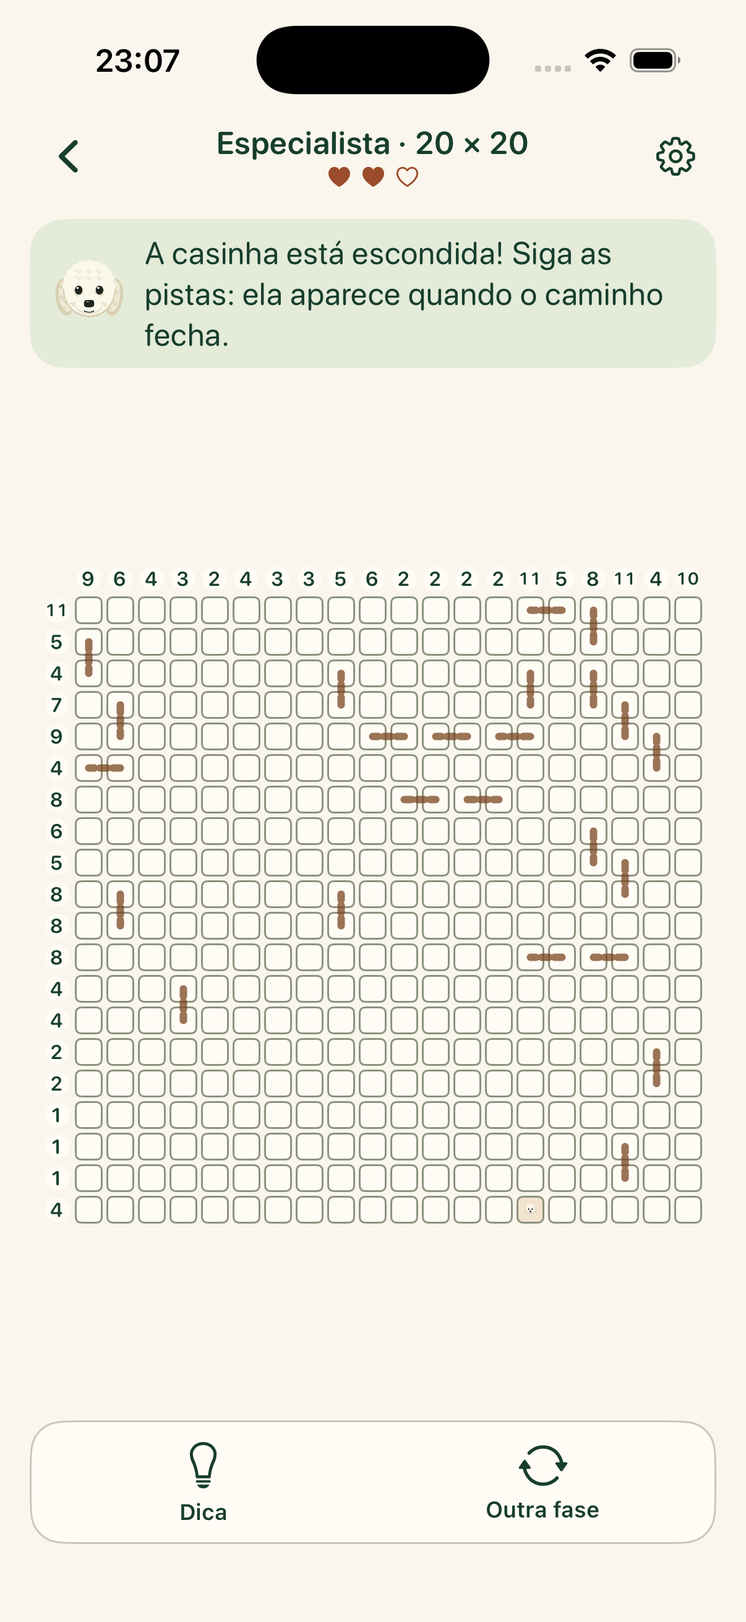
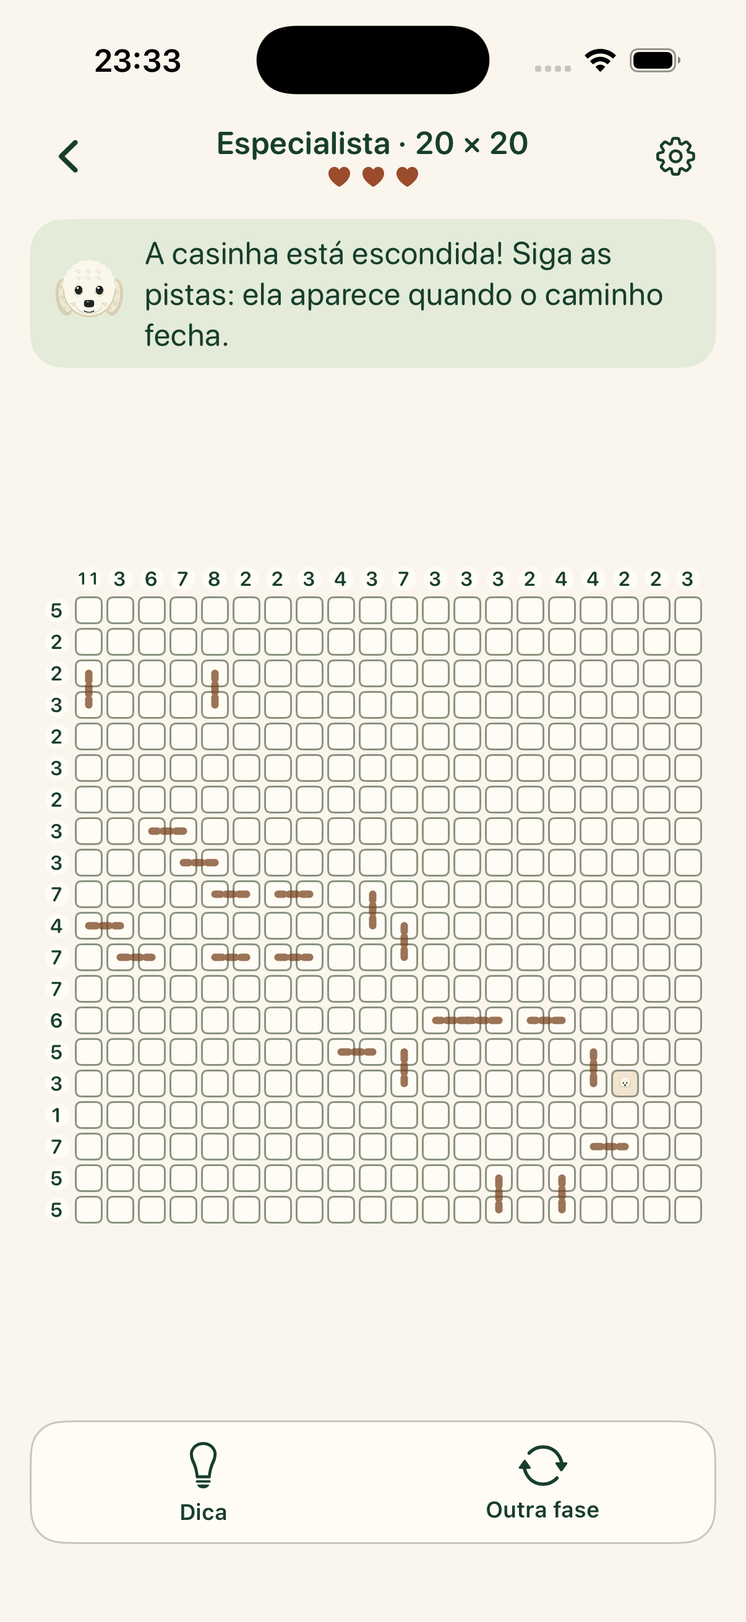
feat: retry the same walk after losing; prefer route cells together per line
After a loss, Tentar de novo restarts the same grid; a finished walk
offers Nova fase or Jogar esta de novo. The generator now keeps the
least broken-up of several candidate routes (skipping frame-like ones
along the border), and big grids use relatively shorter routes, which
also cuts revealed pieces and generation time.

diff --git a/Sources/PuzzleCore/FallbackCatalog.swift b/Sources/PuzzleCore/FallbackCatalog.swift
@@ -16,24 +16,24 @@ public enum FallbackCatalog {
     /// Reserve walks per difficulty, from `Calibration walk-reserves`; certified in tests.
     public static let walks: [Difficulty: [Puzzle]] = [
         .easy: [
-            reserve(#"{"columns":[3,1,1,3,3],"generatorVersion":1,"goal":{"col":3,"row":1},"obstacles":[],"puzzleID":"reserve-walk-v1-easy-0","rows":[2,2,5,1,1],"schemaVersion":2,"seed":1000,"start":{"col":0,"row":4}}"#),
-            reserve(#"{"columns":[2,2,2,2,1],"generatorVersion":1,"goal":{"col":4,"row":0},"obstacles":[],"puzzleID":"reserve-walk-v1-easy-1","rows":[2,2,2,2,1],"schemaVersion":2,"seed":1001,"start":{"col":0,"row":4}}"#),
-            reserve(#"{"columns":[3,1,5,1,2],"generatorVersion":1,"goal":{"col":4,"row":1},"obstacles":[],"puzzleID":"reserve-walk-v1-easy-2","rows":[3,2,2,2,3],"schemaVersion":2,"seed":1002,"start":{"col":0,"row":2}}"#),
+            reserve(#"{"columns":[1,2,2,3,5],"generatorVersion":1,"goal":{"col":0,"row":0},"obstacles":[],"puzzleID":"reserve-walk-v1-easy-0","rows":[5,4,2,1,1],"schemaVersion":2,"seed":1000,"start":{"col":4,"row":4}}"#),
+            reserve(#"{"columns":[1,1,2,2,3],"generatorVersion":1,"goal":{"col":4,"row":4},"obstacles":[],"puzzleID":"reserve-walk-v1-easy-1","rows":[3,2,2,1,1],"schemaVersion":2,"seed":1001,"start":{"col":0,"row":0}}"#),
+            reserve(#"{"columns":[5,1,1,1,1],"generatorVersion":1,"goal":{"col":0,"row":0},"obstacles":[],"puzzleID":"reserve-walk-v1-easy-2","rows":[1,1,1,1,5],"schemaVersion":2,"seed":1002,"start":{"col":4,"row":4}}"#),
         ],
         .medium: [
-            reserve(#"{"columns":[1,2,2,3,2,2,4],"generatorVersion":1,"goal":{"col":3,"row":0},"hiddenGoal":true,"obstacles":[],"puzzleID":"reserve-walk-v1-medium-0","rows":[4,1,1,4,2,2,2],"schemaVersion":2,"seed":1000,"start":{"col":0,"row":6}}"#),
-            reserve(#"{"columns":[2,2,1,1,2,3,5],"generatorVersion":1,"givenEdges":[{"a":{"col":1,"row":5},"b":{"col":1,"row":6}},{"a":{"col":6,"row":4},"b":{"col":6,"row":3}}],"goal":{"col":5,"row":0},"hiddenGoal":true,"obstacles":[],"puzzleID":"reserve-walk-v1-medium-1","rows":[1,2,1,1,2,5,4],"schemaVersion":2,"seed":1001,"start":{"col":0,"row":4}}"#),
-            reserve(#"{"columns":[2,1,1,1,5,3,3],"generatorVersion":1,"givenEdges":[{"a":{"col":4,"row":5},"b":{"col":4,"row":6}}],"goal":{"col":4,"row":6},"hiddenGoal":true,"obstacles":[],"puzzleID":"reserve-walk-v1-medium-2","rows":[7,2,2,2,1,1,1],"schemaVersion":2,"seed":1002,"start":{"col":0,"row":1}}"#),
+            reserve(#"{"columns":[7,2,1,1,1,1,1],"generatorVersion":1,"goal":{"col":1,"row":0},"hiddenGoal":true,"obstacles":[],"puzzleID":"reserve-walk-v1-medium-0","rows":[2,1,1,1,1,1,7],"schemaVersion":2,"seed":1000,"start":{"col":6,"row":6}}"#),
+            reserve(#"{"columns":[1,1,1,1,1,2,7],"generatorVersion":1,"goal":{"col":0,"row":6},"hiddenGoal":true,"obstacles":[],"puzzleID":"reserve-walk-v1-medium-1","rows":[2,1,1,1,1,1,7],"schemaVersion":2,"seed":1001,"start":{"col":5,"row":0}}"#),
+            reserve(#"{"columns":[3,1,2,4,1,1,2],"generatorVersion":1,"goal":{"col":6,"row":5},"hiddenGoal":true,"obstacles":[],"puzzleID":"reserve-walk-v1-medium-2","rows":[1,1,3,2,1,2,4],"schemaVersion":2,"seed":1002,"start":{"col":0,"row":0}}"#),
         ],
         .hard: [
-            reserve(#"{"columns":[3,2,4,1,1,1,3,2,1,10,5,5,7,3,8],"generatorVersion":1,"givenEdges":[{"a":{"col":12,"row":7},"b":{"col":11,"row":7}},{"a":{"col":5,"row":14},"b":{"col":6,"row":14}},{"a":{"col":12,"row":4},"b":{"col":12,"row":3}},{"a":{"col":9,"row":3},"b":{"col":9,"row":2}},{"a":{"col":11,"row":5},"b":{"col":11,"row":4}},{"a":{"col":13,"row":2},"b":{"col":14,"row":2}},{"a":{"col":14,"row":2},"b":{"col":14,"row":3}}],"goal":{"col":12,"row":3},"hiddenGoal":true,"obstacles":[],"puzzleID":"reserve-walk-v1-hard-0","rows":[3,4,3,3,4,3,3,4,4,4,5,4,5,2,5],"schemaVersion":2,"seed":1000,"start":{"col":2,"row":10}}"#),
-            reserve(#"{"columns":[3,4,4,2,3,7,3,2,4,2,4,1,8,5,13],"generatorVersion":1,"givenEdges":[{"a":{"col":8,"row":12},"b":{"col":9,"row":12}},{"a":{"col":6,"row":11},"b":{"col":7,"row":11}},{"a":{"col":6,"row":8},"b":{"col":6,"row":7}},{"a":{"col":2,"row":5},"b":{"col":1,"row":5}},{"a":{"col":5,"row":6},"b":{"col":5,"row":5}},{"a":{"col":8,"row":8},"b":{"col":7,"row":8}},{"a":{"col":13,"row":11},"b":{"col":12,"row":11}},{"a":{"col":14,"row":12},"b":{"col":14,"row":11}},{"a":{"col":9,"row":7},"b":{"col":8,"row":7}},{"a":{"col":13,"row":0},"b":{"col":14,"row":0}},{"a":{"col":12,"row":1},"b":{"col":12,"row":0}}],"goal":{"col":14,"row":0},"hiddenGoal":true,"obstacles":[],"puzzleID":"reserve-walk-v1-hard-1","rows":[3,1,3,1,5,4,3,8,9,8,2,7,4,4,3],"schemaVersion":2,"seed":1001,"start":{"col":10,"row":8}}"#),
-            reserve(#"{"columns":[9,3,6,2,5,2,4,1,4,1,2,1,5,4,14],"generatorVersion":1,"givenEdges":[{"a":{"col":4,"row":1},"b":{"col":4,"row":0}},{"a":{"col":2,"row":9},"b":{"col":2,"row":8}},{"a":{"col":0,"row":8},"b":{"col":0,"row":9}},{"a":{"col":9,"row":3},"b":{"col":10,"row":3}},{"a":{"col":13,"row":11},"b":{"col":13,"row":12}},{"a":{"col":8,"row":0},"b":{"col":8,"row":1}},{"a":{"col":2,"row":0},"b":{"col":1,"row":0}}],"goal":{"col":14,"row":14},"hiddenGoal":true,"obstacles":[],"puzzleID":"reserve-walk-v1-hard-2","rows":[10,7,6,8,7,5,3,3,3,4,1,2,1,2,1],"schemaVersion":2,"seed":1002,"start":{"col":4,"row":2}}"#),
+            reserve(#"{"columns":[4,3,12,6,2,1,3,1,1,2,1,1,2,2,4],"generatorVersion":1,"givenEdges":[{"a":{"col":2,"row":7},"b":{"col":2,"row":8}},{"a":{"col":1,"row":4},"b":{"col":2,"row":4}},{"a":{"col":3,"row":2},"b":{"col":2,"row":2}},{"a":{"col":12,"row":4},"b":{"col":12,"row":5}},{"a":{"col":0,"row":0},"b":{"col":0,"row":1}},{"a":{"col":2,"row":1},"b":{"col":2,"row":0}},{"a":{"col":14,"row":1},"b":{"col":14,"row":2}},{"a":{"col":6,"row":3},"b":{"col":6,"row":2}},{"a":{"col":3,"row":6},"b":{"col":3,"row":7}},{"a":{"col":5,"row":2},"b":{"col":4,"row":2}},{"a":{"col":3,"row":4},"b":{"col":3,"row":5}},{"a":{"col":0,"row":2},"b":{"col":0,"row":3}},{"a":{"col":2,"row":14},"b":{"col":3,"row":14}},{"a":{"col":2,"row":12},"b":{"col":2,"row":13}}],"goal":{"col":4,"row":14},"hiddenGoal":true,"obstacles":[],"puzzleID":"reserve-walk-v1-hard-0","rows":[4,3,7,5,9,5,1,2,1,1,1,1,1,1,3],"schemaVersion":2,"seed":1000,"start":{"col":14,"row":0}}"#),
+            reserve(#"{"columns":[5,2,3,2,8,1,1,1,6,2,4,2,3,2,4],"generatorVersion":1,"givenEdges":[{"a":{"col":10,"row":8},"b":{"col":10,"row":7}},{"a":{"col":0,"row":0},"b":{"col":0,"row":1}},{"a":{"col":6,"row":14},"b":{"col":7,"row":14}},{"a":{"col":10,"row":11},"b":{"col":10,"row":10}},{"a":{"col":8,"row":12},"b":{"col":8,"row":11}},{"a":{"col":8,"row":14},"b":{"col":8,"row":13}},{"a":{"col":8,"row":9},"b":{"col":9,"row":9}},{"a":{"col":12,"row":11},"b":{"col":11,"row":11}},{"a":{"col":4,"row":7},"b":{"col":4,"row":8}},{"a":{"col":13,"row":10},"b":{"col":12,"row":10}}],"goal":{"col":10,"row":10},"hiddenGoal":true,"obstacles":[],"puzzleID":"reserve-walk-v1-hard-1","rows":[2,1,1,1,3,1,2,7,4,4,6,5,2,2,5],"schemaVersion":2,"seed":1001,"start":{"col":1,"row":0}}"#),
+            reserve(#"{"columns":[7,3,6,2,3,1,1,1,4,3,5,6,2,6,3],"generatorVersion":1,"givenEdges":[{"a":{"col":1,"row":7},"b":{"col":1,"row":6}},{"a":{"col":11,"row":7},"b":{"col":11,"row":8}},{"a":{"col":8,"row":5},"b":{"col":8,"row":6}},{"a":{"col":13,"row":14},"b":{"col":12,"row":14}},{"a":{"col":11,"row":11},"b":{"col":10,"row":11}},{"a":{"col":2,"row":3},"b":{"col":2,"row":4}},{"a":{"col":6,"row":9},"b":{"col":5,"row":9}},{"a":{"col":0,"row":6},"b":{"col":0,"row":5}},{"a":{"col":13,"row":8},"b":{"col":13,"row":9}},{"a":{"col":4,"row":9},"b":{"col":4,"row":8}},{"a":{"col":10,"row":9},"b":{"col":9,"row":9}},{"a":{"col":10,"row":10},"b":{"col":10,"row":9}},{"a":{"col":8,"row":9},"b":{"col":7,"row":9}},{"a":{"col":0,"row":4},"b":{"col":0,"row":3}}],"goal":{"col":3,"row":4},"hiddenGoal":true,"obstacles":[],"puzzleID":"reserve-walk-v1-hard-2","rows":[3,2,2,2,5,2,5,6,4,8,2,3,3,2,4],"schemaVersion":2,"seed":1002,"start":{"col":9,"row":4}}"#),
         ],
         .expert: [
-            reserve(#"{"columns":[9,6,4,3,2,4,3,3,5,6,2,2,2,2,11,5,8,11,4,10],"generatorVersion":1,"givenEdges":[{"a":{"col":17,"row":11},"b":{"col":16,"row":11}},{"a":{"col":1,"row":3},"b":{"col":1,"row":4}},{"a":{"col":14,"row":2},"b":{"col":14,"row":3}},{"a":{"col":8,"row":3},"b":{"col":8,"row":2}},{"a":{"col":17,"row":4},"b":{"col":17,"row":3}},{"a":{"col":3,"row":12},"b":{"col":3,"row":13}},{"a":{"col":14,"row":4},"b":{"col":13,"row":4}},{"a":{"col":8,"row":10},"b":{"col":8,"row":9}},{"a":{"col":1,"row":9},"b":{"col":1,"row":10}},{"a":{"col":1,"row":5},"b":{"col":0,"row":5}},{"a":{"col":0,"row":1},"b":{"col":0,"row":2}},{"a":{"col":16,"row":3},"b":{"col":16,"row":2}},{"a":{"col":17,"row":8},"b":{"col":17,"row":9}},{"a":{"col":16,"row":1},"b":{"col":16,"row":0}},{"a":{"col":10,"row":6},"b":{"col":11,"row":6}},{"a":{"col":17,"row":18},"b":{"col":17,"row":17}},{"a":{"col":15,"row":0},"b":{"col":14,"row":0}},{"a":{"col":15,"row":11},"b":{"col":14,"row":11}},{"a":{"col":16,"row":7},"b":{"col":16,"row":8}},{"a":{"col":18,"row":15},"b":{"col":18,"row":14}},{"a":{"col":12,"row":4},"b":{"col":11,"row":4}},{"a":{"col":12,"row":6},"b":{"col":13,"row":6}},{"a":{"col":18,"row":5},"b":{"col":18,"row":4}},{"a":{"col":10,"row":4},"b":{"col":9,"row":4}}],"goal":{"col":15,"row":9},"hiddenGoal":true,"obstacles":[],"puzzleID":"reserve-walk-v1-expert-0","rows":[11,5,4,7,9,4,8,6,5,8,8,8,4,4,2,2,1,1,1,4],"schemaVersion":2,"seed":1000,"start":{"col":14,"row":19}}"#),
-            reserve(#"{"columns":[1,2,2,1,3,1,1,1,1,1,5,2,10,6,8,8,12,12,8,11],"generatorVersion":1,"givenEdges":[{"a":{"col":16,"row":18},"b":{"col":16,"row":17}},{"a":{"col":15,"row":3},"b":{"col":14,"row":3}},{"a":{"col":16,"row":14},"b":{"col":17,"row":14}},{"a":{"col":16,"row":7},"b":{"col":16,"row":6}},{"a":{"col":13,"row":12},"b":{"col":13,"row":11}},{"a":{"col":12,"row":7},"b":{"col":12,"row":6}},{"a":{"col":18,"row":16},"b":{"col":18,"row":17}},{"a":{"col":15,"row":12},"b":{"col":16,"row":12}},{"a":{"col":12,"row":14},"b":{"col":13,"row":14}},{"a":{"col":19,"row":17},"b":{"col":19,"row":18}},{"a":{"col":14,"row":6},"b":{"col":14,"row":7}},{"a":{"col":11,"row":5},"b":{"col":11,"row":4}},{"a":{"col":19,"row":12},"b":{"col":18,"row":12}},{"a":{"col":18,"row":12},"b":{"col":18,"row":11}},{"a":{"col":17,"row":8},"b":{"col":17,"row":7}},{"a":{"col":14,"row":16},"b":{"col":14,"row":17}},{"a":{"col":13,"row":17},"b":{"col":12,"row":17}},{"a":{"col":12,"row":10},"b":{"col":12,"row":9}},{"a":{"col":16,"row":16},"b":{"col":15,"row":16}},{"a":{"col":1,"row":0},"b":{"col":0,"row":0}}],"goal":{"col":0,"row":0},"hiddenGoal":true,"obstacles":[],"puzzleID":"reserve-walk-v1-expert-1","rows":[12,6,8,4,7,4,3,4,4,3,4,4,5,3,5,3,5,6,2,4],"schemaVersion":2,"seed":1001,"start":{"col":19,"row":14}}"#),
-            reserve(#"{"columns":[10,2,2,3,6,5,5,9,5,6,6,4,5,8,6,3,5,3,5,7],"generatorVersion":1,"givenEdges":[{"a":{"col":19,"row":2},"b":{"col":19,"row":1}},{"a":{"col":8,"row":13},"b":{"col":9,"row":13}},{"a":{"col":18,"row":4},"b":{"col":18,"row":3}},{"a":{"col":8,"row":7},"b":{"col":9,"row":7}},{"a":{"col":8,"row":0},"b":{"col":7,"row":0}},{"a":{"col":9,"row":3},"b":{"col":9,"row":2}},{"a":{"col":4,"row":2},"b":{"col":5,"row":2}},{"a":{"col":4,"row":11},"b":{"col":4,"row":12}},{"a":{"col":16,"row":10},"b":{"col":16,"row":9}},{"a":{"col":16,"row":0},"b":{"col":15,"row":0}},{"a":{"col":19,"row":6},"b":{"col":19,"row":5}},{"a":{"col":5,"row":19},"b":{"col":4,"row":19}},{"a":{"col":10,"row":8},"b":{"col":11,"row":8}},{"a":{"col":11,"row":6},"b":{"col":10,"row":6}},{"a":{"col":8,"row":2},"b":{"col":8,"row":1}},{"a":{"col":14,"row":11},"b":{"col":15,"row":11}},{"a":{"col":11,"row":14},"b":{"col":11,"row":15}},{"a":{"col":4,"row":0},"b":{"col":4,"row":1}},{"a":{"col":14,"row":1},"b":{"col":14,"row":2}},{"a":{"col":13,"row":9},"b":{"col":14,"row":9}},{"a":{"col":14,"row":3},"b":{"col":14,"row":4}}],"goal":{"col":14,"row":9},"hiddenGoal":true,"obstacles":[],"puzzleID":"reserve-walk-v1-expert-2","rows":[10,5,6,8,6,5,5,6,7,3,5,7,6,5,5,4,1,1,3,7],"schemaVersion":2,"seed":1002,"start":{"col":7,"row":18}}"#),
+            reserve(#"{"columns":[11,3,6,7,8,2,2,3,4,3,7,3,3,3,2,4,4,2,2,3],"generatorVersion":1,"givenEdges":[{"a":{"col":10,"row":14},"b":{"col":10,"row":15}},{"a":{"col":16,"row":17},"b":{"col":17,"row":17}},{"a":{"col":10,"row":11},"b":{"col":10,"row":10}},{"a":{"col":4,"row":3},"b":{"col":4,"row":2}},{"a":{"col":0,"row":10},"b":{"col":1,"row":10}},{"a":{"col":13,"row":18},"b":{"col":13,"row":19}},{"a":{"col":6,"row":11},"b":{"col":7,"row":11}},{"a":{"col":4,"row":11},"b":{"col":5,"row":11}},{"a":{"col":15,"row":19},"b":{"col":15,"row":18}},{"a":{"col":0,"row":2},"b":{"col":0,"row":3}},{"a":{"col":4,"row":8},"b":{"col":3,"row":8}},{"a":{"col":1,"row":11},"b":{"col":2,"row":11}},{"a":{"col":13,"row":13},"b":{"col":12,"row":13}},{"a":{"col":12,"row":13},"b":{"col":11,"row":13}},{"a":{"col":7,"row":9},"b":{"col":6,"row":9}},{"a":{"col":8,"row":14},"b":{"col":9,"row":14}},{"a":{"col":3,"row":7},"b":{"col":2,"row":7}},{"a":{"col":5,"row":9},"b":{"col":4,"row":9}},{"a":{"col":16,"row":15},"b":{"col":16,"row":14}},{"a":{"col":15,"row":13},"b":{"col":14,"row":13}},{"a":{"col":9,"row":10},"b":{"col":9,"row":9}}],"goal":{"col":18,"row":19},"hiddenGoal":true,"obstacles":[],"puzzleID":"reserve-walk-v1-expert-0","rows":[5,2,2,3,2,3,2,3,3,7,4,7,7,6,5,3,1,7,5,5],"schemaVersion":2,"seed":1000,"start":{"col":17,"row":15}}"#),
+            reserve(#"{"columns":[4,5,4,4,1,3,3,3,2,6,3,2,3,6,3,10,11,4,2,3],"generatorVersion":1,"givenEdges":[{"a":{"col":15,"row":8},"b":{"col":16,"row":8}},{"a":{"col":5,"row":9},"b":{"col":4,"row":9}},{"a":{"col":12,"row":5},"b":{"col":12,"row":6}},{"a":{"col":8,"row":8},"b":{"col":7,"row":8}},{"a":{"col":8,"row":16},"b":{"col":9,"row":16}},{"a":{"col":0,"row":6},"b":{"col":1,"row":6}},{"a":{"col":0,"row":8},"b":{"col":0,"row":7}},{"a":{"col":18,"row":19},"b":{"col":19,"row":19}},{"a":{"col":9,"row":19},"b":{"col":10,"row":19}},{"a":{"col":16,"row":15},"b":{"col":15,"row":15}},{"a":{"col":1,"row":4},"b":{"col":0,"row":4}}],"goal":{"col":0,"row":4},"hiddenGoal":true,"obstacles":[],"puzzleID":"reserve-walk-v1-expert-1","rows":[3,3,2,5,5,5,7,4,9,6,1,1,1,1,3,5,4,4,2,11],"schemaVersion":2,"seed":1001,"start":{"col":5,"row":14}}"#),
+            reserve(#"{"columns":[18,4,2,3,2,2,2,1,1,1,1,2,2,3,3,3,2,6,2,10],"generatorVersion":1,"givenEdges":[{"a":{"col":4,"row":1},"b":{"col":5,"row":1}},{"a":{"col":15,"row":5},"b":{"col":15,"row":4}},{"a":{"col":0,"row":13},"b":{"col":0,"row":12}},{"a":{"col":0,"row":1},"b":{"col":1,"row":1}},{"a":{"col":2,"row":19},"b":{"col":1,"row":19}},{"a":{"col":17,"row":5},"b":{"col":16,"row":5}},{"a":{"col":1,"row":0},"b":{"col":2,"row":0}},{"a":{"col":6,"row":1},"b":{"col":7,"row":1}}],"goal":{"col":12,"row":2},"hiddenGoal":true,"obstacles":[],"puzzleID":"reserve-walk-v1-expert-2","rows":[12,12,4,4,4,5,3,3,3,4,1,1,1,1,1,1,1,1,2,6],"schemaVersion":2,"seed":1002,"start":{"col":6,"row":19}}"#),
         ],
     ]
     public static func walk(for difficulty: Difficulty, variation: UInt64, id: String?) -> Puzzle? {

diff --git a/Sources/PuzzleCore/WalkGenerator.swift b/Sources/PuzzleCore/WalkGenerator.swift
@@ -43,7 +43,12 @@ public enum WalkGenerator {
         for index in 0..<max(0, candidateLimit) {
             if isCancelled() { return report(.cancelled, nil, attempted, logicRejected) }
             attempted += 1
-            guard let route = looseRoute(n, rng: &rng) ?? Optional(coveringRoute(n, rng: &rng)) else { continue }
+            // Of a few candidate routes, keep the one whose rows and columns are least broken up.
+            let options = (0..<(n >= 15 ? 16 : 8)).compactMap { _ in looseRoute(n, rng: &rng) }
+            // Routes that mostly run along the border would win that contest but play like a frame.
+            let border = { (route: [Cell]) in route.filter { $0.row == 0 || $0.col == 0 || $0.row == n-1 || $0.col == n-1 }.count }
+            let inland = options.filter { border($0) * 100 <= $0.count * 30 }
+            guard let route = (inland.isEmpty ? options : inland).min(by: { pieces($0) < pieces($1) }) ?? Optional(coveringRoute(n, rng: &rng)) else { continue }
             let rows = (0..<n).map { r in route.filter { $0.row == r }.count }
             let columns = (0..<n).map { c in route.filter { $0.col == c }.count }
             let puzzleID = id ?? "walk-v\(version)-\(difficulty.rawValue)-\(variation)-\(index)"
@@ -102,24 +107,48 @@ public enum WalkGenerator {
         GenerationReport(outcome: outcome, puzzle: puzzle, candidates: attempted, rejectedBySolver: 0, rejectedByLogic: logic, rejectedByDifficulty: 0)
     }
 
+    /// How many separate runs the route makes across all rows and columns (2n means every line is in one piece).
+    static func pieces(_ route: [Cell]) -> Int {
+        func runs(_ values: [Int]) -> Int {
+            let sorted = values.sorted()
+            return sorted.isEmpty ? 0 : 1 + zip(sorted, sorted.dropFirst()).filter { $1 - $0 > 1 }.count
+        }
+        return Dictionary(grouping: route, by: \.row).values.map { runs($0.map(\.col)) }.reduce(0, +)
+            + Dictionary(grouping: route, by: \.col).values.map { runs($0.map(\.row)) }.reduce(0, +)
+    }
     /// A route that never brushes against itself: each cell touches only the cells before and
-    /// after it. Once logic knows which cells are on the route, their order follows, which is
+    /// after it, and that keeps the cells of each row and column together where it can. Once logic knows which cells are on the route, their order follows, which is
     /// what lets 15×15 and 20×20 be solved without guessing. Also touches every row and column.
     private static func looseRoute(_ n: Int, rng: inout Random) -> [Cell]? {
         let inside = { (c: Cell) in (0..<n).contains(c.row) && (0..<n).contains(c.col) }
-        let target = n*n*30/100 + rng.next(max(1, n*n*12/100))
+        // Big grids get relatively shorter routes: fewer crossings keep their lines more together.
+        let target = n >= 15 ? n*n*20/100 + rng.next(max(1, n*n*8/100)) : n*n*30/100 + rng.next(max(1, n*n*12/100))
         for _ in 0..<60 {
             var route = [Cell(rng.next(n), rng.next(n))]
             var taken: Set<Cell> = [route[0]]
+            var rowCount = Array(repeating: 0, count: n), columnCount = Array(repeating: 0, count: n)
+            rowCount[route[0].row] = 1; columnCount[route[0].col] = 1
             while route.count < target {
                 let tip = route.last!
                 let options = Cell.neighbors(tip).filter { next in
                     inside(next) && !taken.contains(next) && Cell.neighbors(next).allSatisfy { $0 == tip || !taken.contains($0) }
                 }
                 if options.isEmpty { break }
-                // Mostly straight-ish wandering; sometimes the most constrained way, to avoid traps.
+                // Prefer cells that keep each row and column in one piece (a cell starts a new piece
+                // when its line already has route cells and none beside it); sometimes take the most
+                // constrained way to avoid traps, sometimes wander for variety.
                 let exits = { (c: Cell) in Cell.neighbors(c).filter { inside($0) && !taken.contains($0) }.count }
-                let pick = rng.next(3) == 0 ? options.min(by: { exits($0) < exits($1) })! : options[rng.next(options.count)]
+                let pieces = { (c: Cell) -> Int in
+                    let row = rowCount[c.row] > 0 && !taken.contains(Cell(c.row, c.col-1)) && !taken.contains(Cell(c.row, c.col+1))
+                    let column = columnCount[c.col] > 0 && !taken.contains(Cell(c.row-1, c.col)) && !taken.contains(Cell(c.row+1, c.col))
+                    return (row ? 1 : 0) + (column ? 1 : 0)
+                }
+                let fewest = options.map(pieces).min()!
+                let together = options.filter { pieces($0) == fewest }
+                let roll = rng.next(6)
+                let pick = roll < 4 ? together[rng.next(together.count)]
+                    : roll == 4 ? options.min(by: { exits($0) < exits($1) })! : options[rng.next(options.count)]
+                rowCount[pick.row] += 1; columnCount[pick.col] += 1
                 route.append(pick); taken.insert(pick)
             }
             if route.count >= target * 3 / 4, Set(route.map(\.row)).count == n, Set(route.map(\.col)).count == n { return route }

diff --git a/App/GameScreen.swift b/App/GameScreen.swift
@@ -35,7 +35,8 @@ struct GameScreen: View {
             GeometryReader { space in board(in: space.size) }
             if let error = session.storageError { storageRecovery(error) }
             if session.attempt.defeated {
-                Button(String(localized: "Tentar de novo"), systemImage: "arrow.clockwise") { Task { await session.replay() } }
+                // After losing, the same grid again: only a finished walk offers a new one.
+                Button(String(localized: "Tentar de novo"), systemImage: "arrow.clockwise") { session.restart() }
                     .buttonStyle(GardenButtonStyle(prominent: true))
             } else {
                 GameToolbar(canPlay: session.canInteract && !busy, isDaily: session.activeDailyID != nil,
@@ -58,7 +59,7 @@ struct GameScreen: View {
             VictorySheet(dogName: session.dogName, paws: session.attempt.paws,
                          best: session.bestPaws[game.puzzle.puzzleID] ?? session.attempt.paws,
                          isDaily: session.activeDailyID != nil, generating: session.generating,
-                         onNext: onNext, onReplay: { Task { await session.replay() } }, onHome: onHome)
+                         onNext: onNext, onReplay: { session.restart() }, onHome: onHome)
         }
         .task(id: session.celebrating) { await celebrate() }
         .onChange(of: game.won) { _, won in if !won { enteredHouse = false; wagging = false } }
@@ -270,10 +271,10 @@ struct VictorySheet: View {
                     Button(String(localized: "Voltar ao início"), systemImage: "house", action: onHome)
                         .buttonStyle(GardenButtonStyle(prominent: true))
                 } else {
-                    Button(String(localized: "Próximo passeio"), systemImage: "arrow.forward", action: onNext)
+                    Button(String(localized: "Nova fase"), systemImage: "sparkles", action: onNext)
                         .buttonStyle(GardenButtonStyle(prominent: true)).disabled(generating)
                 }
-                Button(String(localized: "Jogar de novo"), systemImage: "arrow.clockwise", action: onReplay)
+                Button(String(localized: "Jogar esta de novo"), systemImage: "arrow.clockwise", action: onReplay)
                     .buttonStyle(GardenButtonStyle()).disabled(generating)
                 if !isDaily {
                     Button(String(localized: "Início"), action: onHome).font(GardenTheme.heading).padding(.top, 2)

diff --git a/Sources/Calibration/main.swift b/Sources/Calibration/main.swift
@@ -37,17 +37,22 @@ if CommandLine.arguments.contains("sizes") {
     // Generation time and revealed pieces per difficulty (10 variations each).
     let clock = ContinuousClock()
     for difficulty in Difficulty.allCases {
-        var times: [Double] = [], pieces: [Int] = [], candidates = 0, failed = 0
+        var times: [Double] = [], pieces: [Int] = [], candidates = 0, failed = 0, blocks = 0, linesSeen = 0, together = 0, multi = 0
         for variation in UInt64(1)...10 {
             let start = clock.now
             let r = WalkGenerator.generate(difficulty, variation: variation)
             let t = start.duration(to: clock.now).components
             times.append(Double(t.seconds)*1000 + Double(t.attoseconds)/1e15)
             candidates += r.candidates
-            if let p = r.puzzle { pieces.append(p.givenEdges.count) } else { failed += 1 }
+            if let p = r.puzzle, let route = PuzzleSolution.route(for: p) {
+                pieces.append(p.givenEdges.count)
+                // Pieces per line: 1 means the line's route cells are all together.
+                let lines = (0..<p.rows.count).map { r in route.filter { $0.row == r }.map(\.col) } + (0..<p.columns.count).map { c in route.filter { $0.col == c }.map(\.row) }
+                for line in lines { let sorted = line.sorted(); blocks += 1 + zip(sorted, sorted.dropFirst()).filter { $1 - $0 > 1 }.count; linesSeen += 1
+                    if sorted.count > 1 && zip(sorted, sorted.dropFirst()).allSatisfy({ $1 - $0 == 1 }) { together += 1; multi += 1 } else if sorted.count > 1 { multi += 1 } }
+            } else { failed += 1 }
         }
-        let zeros = 0
-        print("\(difficulty) median=\(times.sorted()[5])ms max=\(times.max()!)ms candidates=\(candidates) failed=\(failed) pieces=\(pieces) zeros=\(zeros)")
+        print("\(difficulty) median=\(times.sorted()[5])ms max=\(times.max()!)ms candidates=\(candidates) failed=\(failed) pieces=\(pieces) blocksPerLine=\(Double(blocks)/Double(max(1, linesSeen))) linesTogether=\(together)/\(multi)")
     }
     exit(0)
 }

diff --git a/App/GameView.swift b/App/GameView.swift
@@ -191,7 +191,7 @@ struct GameView: View {
                         Text(String(localized: "As pistas contam as casas do caminho em cada linha e coluna, incluindo o início. No Fácil a casinha aparece e também conta; nos outros níveis ela fica escondida e só aparece quando o caminho fecha."))
                         Text(String(localized: "Arraste, ou toque na casa vizinha à ponta, para andar. Cada passo é definitivo: não dá para voltar. Toque e segure numa casa para marcar ×, e de novo para limpar. Dica explica uma dedução sem jogar por você."))
                         Text(String(localized: "Cada fase tem um único caminho certo, e você tem 3 vidas em todos os níveis e no desafio do dia. Tocar numa casa fora do caminho certo, ou andar para ela, custa uma vida."))
-                        Text(String(localized: "Toda fase é nova: jogar de novo, tentar de novo ou trocar de fase sempre traz uma grade diferente. Só o desafio do dia é igual o dia todo."))
+                        Text(String(localized: "Ao perder, Tentar de novo recomeça a mesma grade. Ao completar, você escolhe jogar a mesma de novo ou uma nova fase. Outra fase troca por uma grade nova a qualquer momento."))
                         Text(String(localized: "Ao chegar em casa, as vidas que sobraram viram patinhas: 3 para um passeio sem erros."))
                     }.fixedSize(horizontal: false, vertical: true).padding(.top, 8)
                 }

diff --git a/README.md b/README.md
@@ -234,3 +234,17 @@ Ajustes do Lucas depois de jogar. Eles substituem mundos, regras temáticas, obs
   - **Reproduzir:** `swift run -c release Calibration sizes`.
 
 Capturas: [início](docs/validation/design-review/home-difficulties.png) e [Especialista 20×20](docs/validation/design-review/expert-20x20.png). **Pendente:** o zoom com pinça, os toques que custam vida e o bottom sheet não foram exercitados com toques reais. A geração no build Debug é cerca de 10 vezes mais lenta que no Release, e o preparo antecipado esconde isso a partir da segunda fase.
+
+**Atualização:**
+
+- **Tentar de novo e vitória:** "Tentar de novo" (depois de perder) recomeça a mesma grade. Ao completar, a fase oferece "Nova fase" ou "Jogar esta de novo".
+- **Casas juntas:** o gerador prefere caminhos com as casas de cada linha e coluna juntas, sem garantir em todas. Ele sorteia 8 caminhos (16 nas grades grandes) e fica com o menos picado, descartando os que correm mais de 30% pela borda, que jogariam como uma moldura. As grades grandes também passaram a ter caminhos relativamente mais curtos (20–28% das casas).
+- **Resultado** (média de pedaços por linha e coluna; 1 = tudo junto):
+
+  | Nível | Pedaços por linha | Trechos revelados | Tempo (macOS, Release) |
+  |---|---|---|---|
+  | Médio | 1,06 | ~0 | ~1 ms |
+  | Difícil | 1,8 | ~9 | ~0,05 s |
+  | Especialista | 2,1 | ~17 | ~0,2 s |
+
+  [Exemplo 15×15](docs/validation/design-review/hard-15x15.png).
